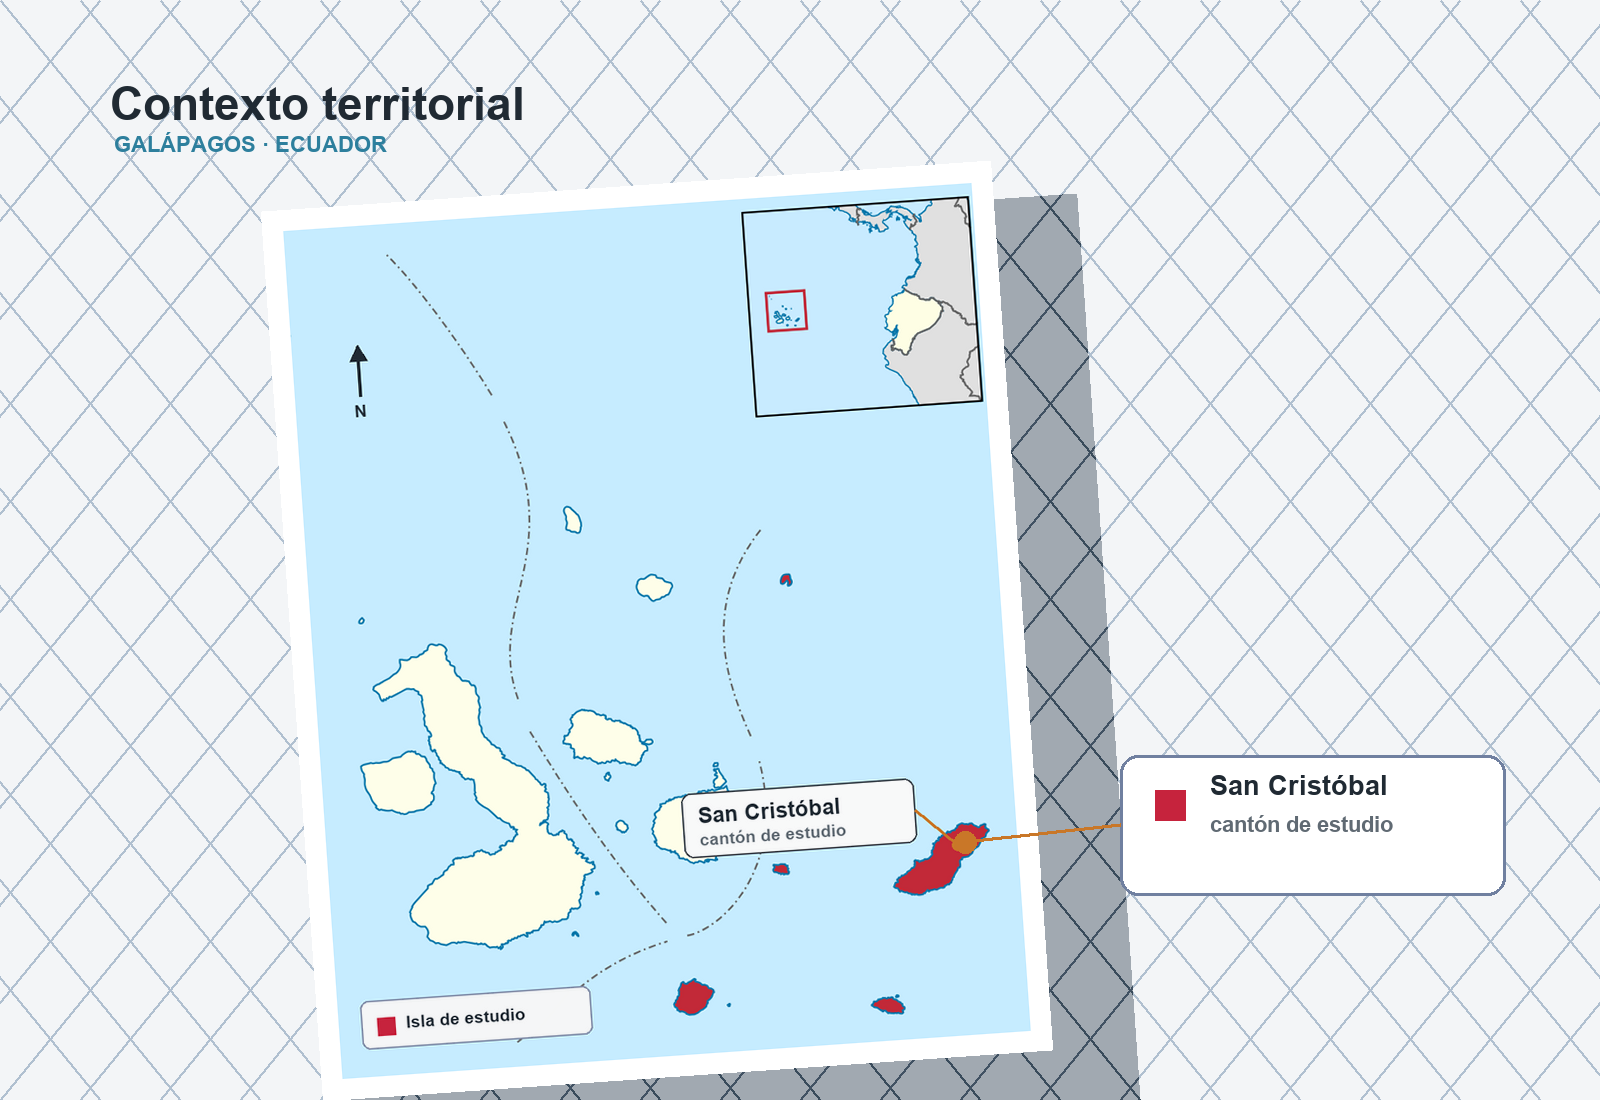
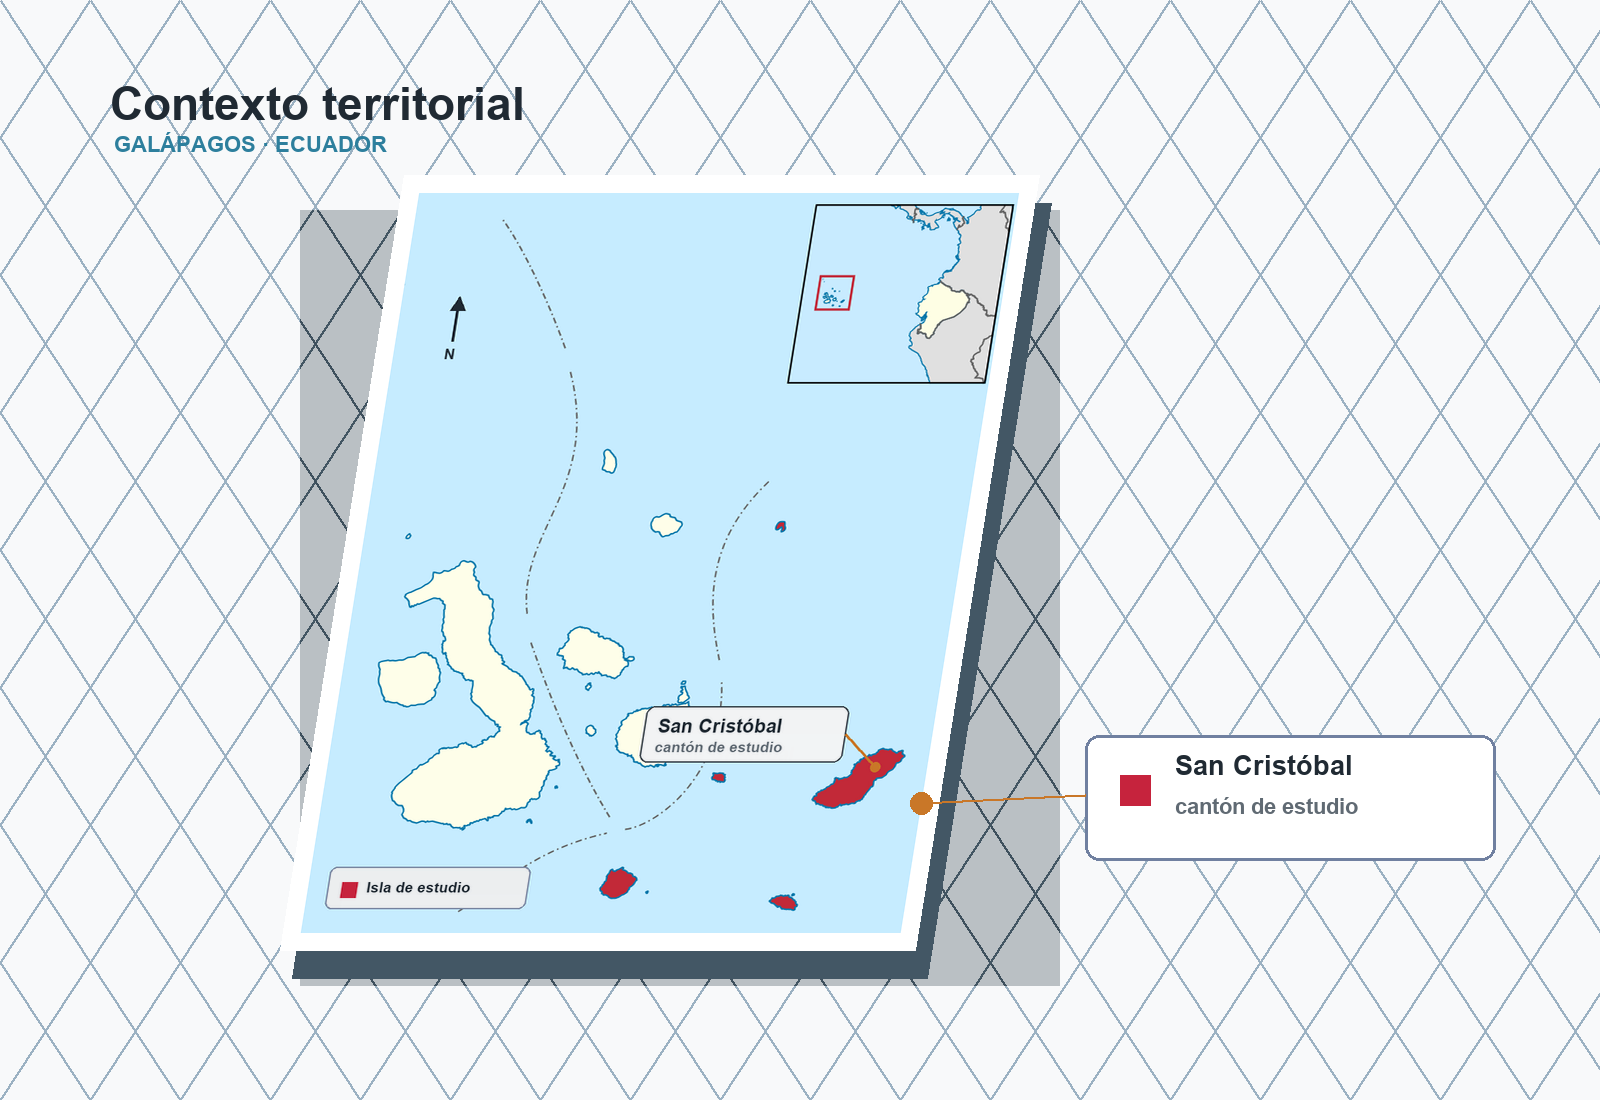
Simplificar figura 1.1 a axonometria

diff --git a/scripts/crear_mapa_isometrico.py b/scripts/crear_mapa_isometrico.py
@@ -8,13 +8,13 @@ source = ROOT / "figuras" / "mapa-san-cristobal-galapagos-mejorado.png"
 target = ROOT / "figuras" / "mapa-san-cristobal-galapagos-isometrico.png"
 
 W, H = 1600, 1100
-canvas = Image.new("RGBA", (W, H), (243, 245, 247, 255))
+canvas = Image.new("RGBA", (W, H), (248, 249, 250, 255))
 draw = ImageDraw.Draw(canvas, "RGBA")
 
-# Retícula isométrica ligera, inspirada en la referencia, sin competir con el mapa.
-for start in range(-800, W + 800, 80):
-    draw.line((start, H, start + 900, 0), fill=(176, 192, 208, 55), width=2)
-    draw.line((start, 0, start + 900, H), fill=(176, 192, 208, 42), width=2)
+# Retícula axonométrica muy ligera: solo estructura el plano de fondo.
+for start in range(-900, W + 900, 90):
+    draw.line((start, H, start + 720, 0), fill=(155, 177, 194, 36), width=2)
+    draw.line((start, 0, start + 720, H), fill=(155, 177, 194, 28), width=2)
 
 font_candidates = [
     Path("C:/Windows/Fonts/SourceSansPro-Semibold.ttf"),
@@ -25,32 +25,49 @@ title_font = ImageFont.truetype(str(font_path), 46) if font_path else ImageFont.
 label_font = ImageFont.truetype(str(font_path), 27) if font_path else ImageFont.load_default()
 small_font = ImageFont.truetype(str(font_path), 22) if font_path else ImageFont.load_default()
 
+# Encabezado sobrio, como en un gráfico axonométrico editorial.
 draw.text((110, 78), "Contexto territorial", fill=(32, 42, 51, 255), font=title_font)
 draw.text((114, 132), "GALÁPAGOS · ECUADOR", fill=(45, 127, 157, 255), font=small_font)
 
-# Tarjeta principal con sombra y volumen, manteniendo el mapa original sin deformarlo.
+def shear(im, k=-0.16):
+    """Inclina una tarjeta rectangular para construir una axonometría sencilla."""
+    w, h = im.size
+    shift = int(abs(k) * h) + 8
+    out = im.transform((w + shift, h), Image.Transform.AFFINE,
+                       (1, -k, -shift if k < 0 else 0, 0, 1, 0),
+                       resample=Image.Resampling.BICUBIC)
+    bbox = out.getbbox()
+    return out.crop(bbox) if bbox else out
+
+# Plano principal: mapa plano, sin perspectiva fotográfica, con una pequeña
+# extrusión inferior que hace explícita la axonometría.
 map_image = Image.open(source).convert("RGBA")
-map_image.thumbnail((850, 850), Image.Resampling.LANCZOS)
-map_card = Image.new("RGBA", (map_image.width + 42, map_image.height + 42), (255, 255, 255, 255))
-map_card.paste(map_image, (21, 21), map_image)
-map_card = map_card.rotate(4, resample=Image.Resampling.BICUBIC, expand=True)
+map_image.thumbnail((650, 740), Image.Resampling.LANCZOS)
+card = Image.new("RGBA", (map_image.width + 36, map_image.height + 36), (255, 255, 255, 255))
+card.paste(map_image, (18, 18), map_image)
+top = shear(card)
 
+# Sombra y canto lateral discretos.
 shadow = Image.new("RGBA", canvas.size, (0, 0, 0, 0))
-shadow_card = Image.new("RGBA", map_card.size, (25, 43, 58, 95))
-shadow_card.putalpha(shadow_card.getchannel("A").filter(ImageFilter.GaussianBlur(16)))
-shadow_card = shadow_card.rotate(4, resample=Image.Resampling.BICUBIC, expand=True)
-shadow.alpha_composite(shadow_card, (285, 193))
-canvas.alpha_composite(shadow, (0, 0))
-canvas.alpha_composite(map_card, (260, 160))
+shadow_shape = Image.new("RGBA", top.size, (37, 55, 67, 75))
+shadow_shape.putalpha(shadow_shape.getchannel("A").filter(ImageFilter.GaussianBlur(18)))
+shadow.alpha_composite(shadow_shape, (300, 210))
+canvas.alpha_composite(shadow)
 
-# Marcador exterior para reforzar la lectura del sitio de estudio.
-marker_box = (1120, 755, 1505, 895)
-draw.rounded_rectangle(marker_box, radius=18, fill=(255, 255, 255, 245), outline=(112, 128, 160, 255), width=3)
-draw.rectangle((1155, 790, 1185, 820), fill=(198, 35, 61, 255))
-draw.text((1210, 770), "San Cristóbal", fill=(32, 42, 51, 255), font=label_font)
-draw.text((1210, 812), "cantón de estudio", fill=(96, 106, 115, 255), font=small_font)
-draw.line((1120, 825, 965, 842), fill=(201, 119, 40, 255), width=4)
-draw.ellipse((954, 831, 976, 853), fill=(201, 119, 40, 255))
+map_x, map_y = 280, 175
+edge = Image.new("RGBA", top.size, (67, 87, 101, 255))
+edge.putalpha(top.getchannel("A"))
+canvas.alpha_composite(edge, (map_x + 12, map_y + 28))
+canvas.alpha_composite(top, (map_x, map_y))
+
+# Único llamado exterior, reducido para no competir con la información del mapa.
+marker_box = (1085, 735, 1495, 860)
+draw.rounded_rectangle(marker_box, radius=14, fill=(255, 255, 255, 250), outline=(112, 128, 160, 255), width=3)
+draw.rectangle((1120, 775, 1150, 805), fill=(198, 35, 61, 255))
+draw.text((1175, 750), "San Cristóbal", fill=(32, 42, 51, 255), font=label_font)
+draw.text((1175, 794), "cantón de estudio", fill=(96, 106, 115, 255), font=small_font)
+draw.line((1085, 795, 921, 803), fill=(201, 119, 40, 255), width=3)
+draw.ellipse((910, 792, 932, 814), fill=(201, 119, 40, 255))
 
 canvas.convert("RGB").save(target, optimize=True)
 print(target)
